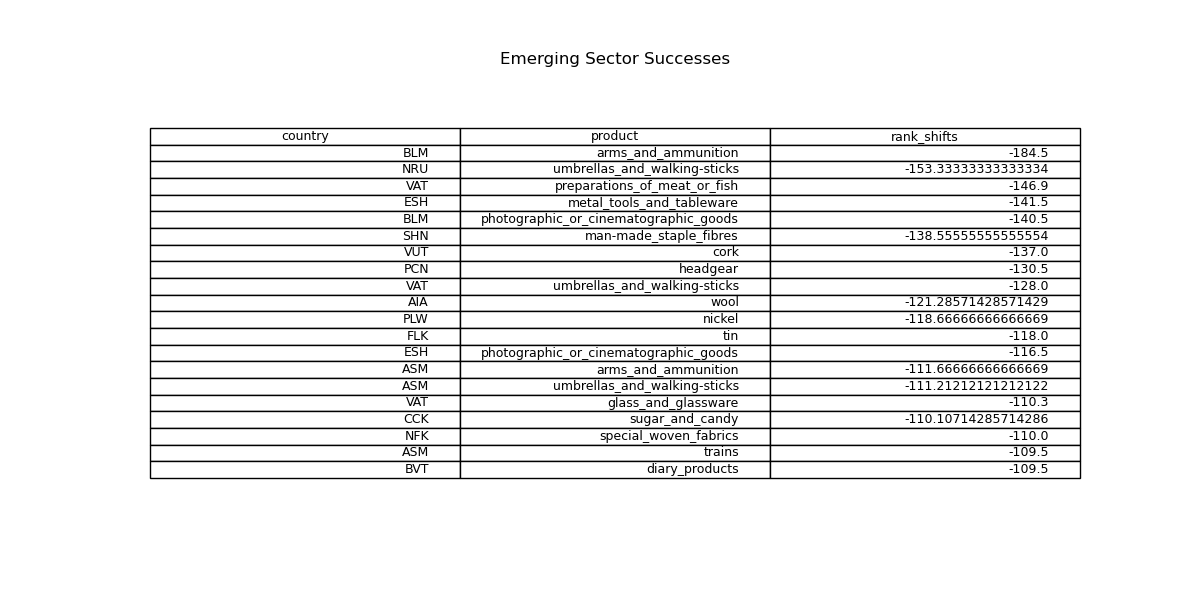
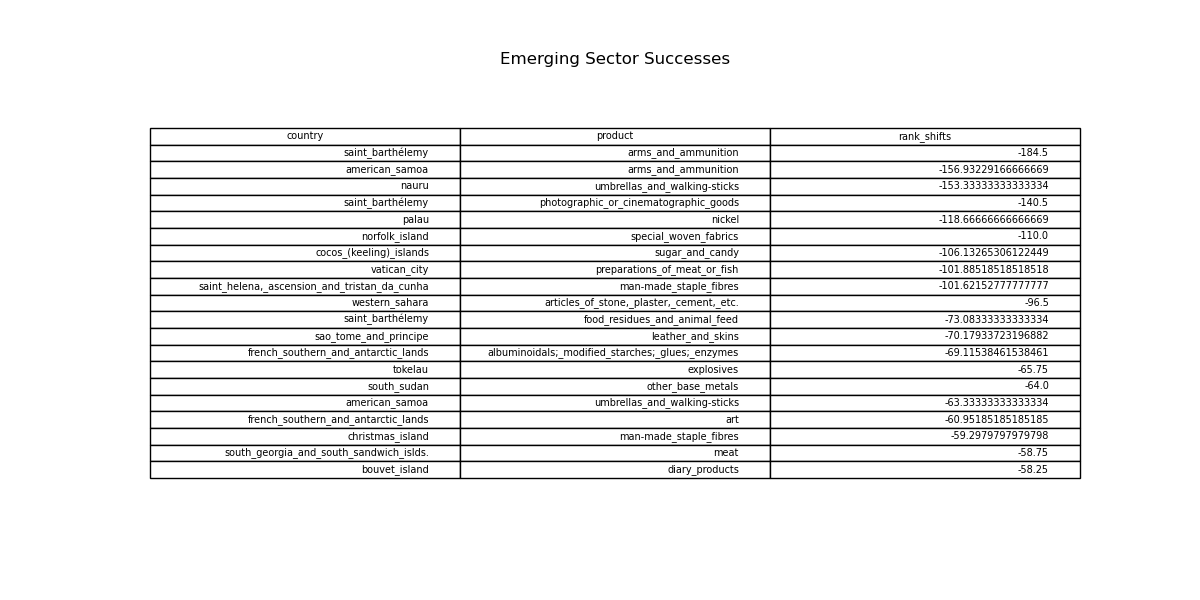
kara analysis comments + README

diff --git a/analysis_kara.py b/analysis_kara.py
@@ -16,12 +16,16 @@ def emerging_success(rank_col: str, window_len: int, recent_len: int, top_rows: 
                     relative change of recent growth
         top_rows - number of emerging sector successes to return
     """
-    # extract data from 2-digit level product data
+
+    # extract data from 2-digit level product data (change 'data/filt_hs92_country_product_year_2.csv'
+    # to other data path as necessary)
     data_path = os.path.join(os.path.dirname(__file__),'data/filt_hs92_country_product_year_2.csv')
     df = pd.read_csv(data_path)
 
-    # group data by country 
-    df_group = df.groupby(['country_code','name_short_en'])
+    # group data by cases (country, product)
+    df_group = df.groupby(['country','name_short_en'])
+
+    # intialize a new DataFrame to store slope of each sector's shift in rank
     new_df = pd.DataFrame(columns=['country', 'product', 'rank_shifts', 'years', 'rankings'])
     countries = []
     products = []
@@ -29,6 +33,7 @@ def emerging_success(rank_col: str, window_len: int, recent_len: int, top_rows: 
     ranks = []
     rank_shifts = []
 
+    # iterates through each country-product pair
     for name, group in df_group:
         countries.append(name[0])
         products.append(name[1])
@@ -39,118 +44,164 @@ def emerging_success(rank_col: str, window_len: int, recent_len: int, top_rows: 
         rank_group = group[rank_col].tolist()
         ranks.append(rank_group)
 
+        # establishes window of "recent years" based on recent_len parameter
         recent_window = 2022 - recent_len
         recent_df = group[group['year'] >= recent_window]
+
+        # filters out zero ranks due to NaN data
         nonzero_rdf = recent_df[recent_df[rank_col] != 0]
+
+        # initialize slope of recent data to infinity (worst case scenario)
         recent_growth = float('inf')
         
+        # calculate recent growth as change in ranking across window of "recent
+        # years" over change in years
         if len(nonzero_rdf) > 1:
             recent_growth = (nonzero_rdf.iloc[len(nonzero_rdf) - 1][rank_col] - nonzero_rdf.iloc[0][rank_col]) / (nonzero_rdf.iloc[len(nonzero_rdf) - 1]['year'] - nonzero_rdf.iloc[0]['year'])
             
+        # establishes window of "earlier years" based on what is not in the
+        # window of "recent years"
         early_df = group[group['year'] < recent_window]
+
+        # filters out zero ranks due to NaN data
         nonzero_edf = early_df[early_df[rank_col] != 0]
 
+        # initialize slope of early data to infinity (worst case scenario)
         early_growth = []
         early_growth_avg = float('inf')
 
         if len(nonzero_edf) > 1:
+            # set slope of early data to the change in ranking across window of
+            # "earlier years" if there is enough data
             early_growth_avg = nonzero_edf.iloc[len(nonzero_edf) - 1][rank_col] - nonzero_edf.iloc[0][rank_col]
+
             i = 0
             curr_yr = 1995
 
+            # iterate through earlier years using windows of window_len length
             while curr_yr + window_len < recent_window:
+                # filter for years in each window
                 early_mask = (curr_yr <= nonzero_edf['year']) & (nonzero_edf['year'] < (curr_yr + window_len))
                 early_window = nonzero_edf[early_mask]
 
+                # if there's enough data, find slope of rank shifts across each window
                 if len(early_window) > 1:
-                    early_slope = early_window.iloc[len(early_window) - 1][rank_col] - early_window.iloc[0][rank_col]
-                    early_growth.append(len(early_window) * early_slope)
+                    early_slope = (early_window.iloc[len(early_window) - 1][rank_col] - early_window.iloc[0][rank_col]) / (early_window.iloc[len(early_window) - 1]['year'] - early_window.iloc[0]['year'])
+                    
+                    # append slope to list to later take average
+                    early_growth.append(early_slope)
+
+                    # add the data points to total number of data points
                     i += len(early_window)
 
+                # set the current year to the end of the previous window to begin the next window
                 curr_yr = curr_yr + window_len
 
+            # repeat while loop logic for last window before "recent years" (window may not be the entire window_len)
             early_mask = (curr_yr <= nonzero_edf['year']) & (nonzero_edf['year'] < (recent_window))
             early_window = nonzero_edf[early_mask]
 
+            # repeat slope calculations on last window
             if len(early_window) > 1:
                 early_slope = (early_window.iloc[len(early_window) - 1][rank_col] - early_window.iloc[0][rank_col]) / (early_window.iloc[len(early_window) - 1]['year'] - early_window.iloc[0]['year'])
-                early_growth.append(len(early_window) * early_slope)
+                early_growth.append(early_slope)
                 i += len(early_window)
 
             if i != 0:
+                # sum slopes of each window over the total number of data points (retrieves mean slope of earlier years)
                 early_growth_avg = sum(early_growth) / i
-            
+        
+        # calculate difference between recent slope and earlier slope
         rank_shifts.append(recent_growth - early_growth_avg)
     
+    # assign each list to a column in the new DataFrame
     new_df['country'] = countries
     new_df['product'] = products
     new_df['rank_shifts'] = rank_shifts
     new_df['years'] = years
     new_df['rankings'] = ranks
 
+    # ensure DataFrame as no null or infinite slope values
     new_df_clean = new_df[~new_df['rank_shifts'].isna() & ~np.isinf(new_df['rank_shifts'])]
+
+    # sort DataFrameby rank_shifts (more negative slope = greater increase in rank)
     df_sorted = new_df_clean.sort_values(by='rank_shifts', ascending=True)
+
+    # retrieve top emerging success cases using top_rows parameter
     df_sorted_top = df_sorted.head(top_rows)
 
+    # make a directory for plot of each emerging success case (plots rankings
+    # for each case over time)
     os.makedirs('emerging_successes_plots', exist_ok=True)
 
+    # iterates through each row of sorted DataFrame to plot each case on separate graphs
     for index, row in df_sorted_top.iterrows():
         yrs = row['years']
         rkgs = row['rankings']
 
+        # plots rankings for each case over years
         plt.figure()
         plt.plot(yrs, rkgs, marker='o')
 
+        # labelling
         plt.xlabel('Year') 
         plt.ylabel('Ranking') 
         plt.title(f'{row["country"]}: {row["product"]}')
         plt.grid(True)
 
+        # save figure to 'emerging_successes_plots' directory
         output = os.path.join('emerging_successes_plots', f'{row["country"]}_{row["product"]}.png')
         plt.tight_layout()
         plt.savefig(output)
         plt.close()
 
+    # iterates through each row of sorted DataFrame to plot each case on same graph
     for index, row in df_sorted_top.iterrows():
         yrs = row['years']
         rkgs = row['rankings']
+
+        # plots rankings for each case over years
         plt.plot(yrs, rkgs, marker='o')
 
+    # labelling
     plt.xlabel('Year') 
     plt.ylabel('Ranking') 
     plt.title(f'Top {top_rows} Emerging Sector Successes')
     plt.grid(True)
 
+    # save figure to 'emerging_successes_plots' directory
     output = os.path.join('emerging_successes_plots', f'top_{top_rows}_successes.png')
     plt.tight_layout()
     plt.savefig(output)
     plt.close()
 
+    # drop "years" and "rankings" columns (no longer necessary after graphing)
     df_sorted_top.drop(columns=['years', 'rankings'], inplace=True)
+
+    # saves sorted DataFrame to CSV
     df_sorted_top.to_csv('emerging_successes.csv', index=False)
 
+    # converts and saves sorted DataFrame to table (for interpretability)
     plt.figure(figsize=(12, 6))
     plt.axis('off')
     plt.title("Emerging Sector Successes")
     table = plt.table(cellText=df_sorted_top.values, colLabels=df_sorted_top.columns, loc='center')
     plt.savefig('emerging_successes_table.png')
 
-    return df_sorted.head(top_rows)
+    return df_sorted_top.head(top_rows)
 
 # first input (string): currently 'rank_avg'
 # changes the ranking metric that determines success
 # must be one of: 'rank_per_capita', 'rank_rca', 'rank_market_share', 'rank_avg'
 
-# second input (non-zero integer): currently 5
-# changes the length of time series windows (in years) to calculate relative 
-# changes of rank in earlier years
+# second input (non-zero integer): currently 10
+# changes the length of time series windows (in years) to calculate relative changes of rank in earlier years
 # average of these relative changes is used as the control to determine recent sector success
 
-# third_input (non-zero integer): currently 10
-# changes the length of time series windows (in years) to calculate relative 
-# change of rank in recent years
+# third_input (non-zero integer): currently 5
+# changes the length of time series windows (in years) to calculate relative change of rank in recent years
 
 # fourth input (non-zero integer): currently 20
 # determines number of top growth cases to return
 
-print(emerging_success('rank_avg', 5, 5, 20))
+print(emerging_success('rank_avg', 10, 5, 20))

diff --git a/preprocessing.py b/preprocessing.py
@@ -112,7 +112,7 @@ def exclude(df: pd.DataFrame, path: str, name: str):
     df_filtered.to_csv(csv_path, index=False)
 
 
-#Calculating one criteria for ranking: export per capita
+# calculating one criteria for ranking: export per capita
 def export_per_capita(dataframe: pd.DataFrame) -> pd.DataFrame:
     ''' Function to calculate export per capita uses population data. This makes the export values of each country 
     more comparable as it adjusts for larger export values due to population size'''

diff --git a/README.md b/README.md
@@ -6,7 +6,21 @@ After downloading all files from the [dataset](https://dataverse.harvard.edu/dat
 unzip the download and move all files to a new folder titled "data". Move the 
 "data" folder inside the cloned repository.
 
+You also want to download 'location_country.tab' and 'product_hs92.tab' from the [Classifications Data](https://dataverse.harvard.edu/dataset.xhtml?persistentId=doi:10.7910/DVN/3BAL1O). Move these files into the "data" folder you just created.
+
 ## Converting the Data
 The dataset is DTA-formatted (STATA-compatible) and should be converted to CSVs (Comma-Separated Values). Run data_conversion.py. If you are given a FileNotFound error, ensure the "data" folder is located in the same folder as data_conversion.py. This process can take up to 30-45 minutes. 
 
 When the file is done running, check the "data" folder to ensure each DTA file has a corresponding CSV file.
+
+## Preprocessing the Data
+To clean the data, run preprocessing.py. This file standardizes capitalization, translates country and product
+codes to their English names, removes missing values, and excludes certain countries and products from the
+dataset as delineated in the exclusion criteria. This file will also calculate the RCA (Revealed Comparative Advantage),
+exports per capita, and four different rankings based on various criteria (RCA, exports prt capita, market share, and 
+average of all three).
+
+Note that preprocessing.py is currently set to process only hs92_country_product_year_2.csv to focus on products at the 2-digit level. To process the other datasets (1-digit, 4-digit, and 6-digit levels), uncomment the for loop to iterate through every file. This make take up to an hour to run.
+
+You can check the progress of the preprocessing by opening the "data" folder. Once a file is processed, it will appear as "filt_" followed by the original name of the CSV.
+
